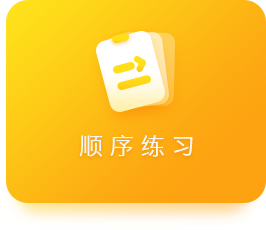
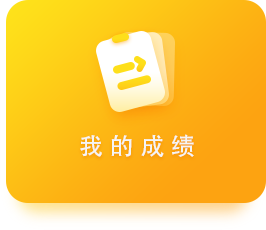
我的成绩做完

Changed region(s): [[0.4211, 0.5783, 0.7519, 0.7], [0.3008, 0.5783, 0.391, 0.7]]

diff --git a/pages/score/score.js b/pages/score/score.js
@@ -1,0 +1,40 @@
+// pages/index/index.js
+Page({
+
+    /**
+     * 页面的初始数据
+     */
+    data: {
+        list: [
+            {
+                name: '钳工基础',
+                score: 90,
+                date: '12月12日',
+                useTime: '25分20秒'
+            },
+            {
+                name: '钳工基础',
+                score: 90,
+                date: '12月12日',
+                useTime: '25分20秒'
+            },
+            {
+                name: '钳工基础',
+                score: 90,
+                date: '12月12日',
+                useTime: '25分20秒'
+            },
+            {
+                name: '钳工基础',
+                score: 90,
+                date: '12月12日',
+                useTime: '25分20秒'
+            }
+        ]
+    },
+    goBack: function () {
+        wx.navigateBack({
+            delta: 1
+        })
+    }
+})

diff --git a/pages/index/index.js b/pages/index/index.js
@@ -1,9 +1,18 @@
 // pages/index/index.js
 Page({
 
-  /**
-   * 页面的初始数据
-   */
-  data: {
-  }
+    /**
+     * 页面的初始数据
+     */
+    data: {},
+    goBack: function () {
+        wx.reLaunch({
+            url: '/pages/login/login'
+        })
+    },
+    goScore: function () {
+        wx.navigateTo({
+            url: '/pages/score/score'
+        })
+    }
 })
